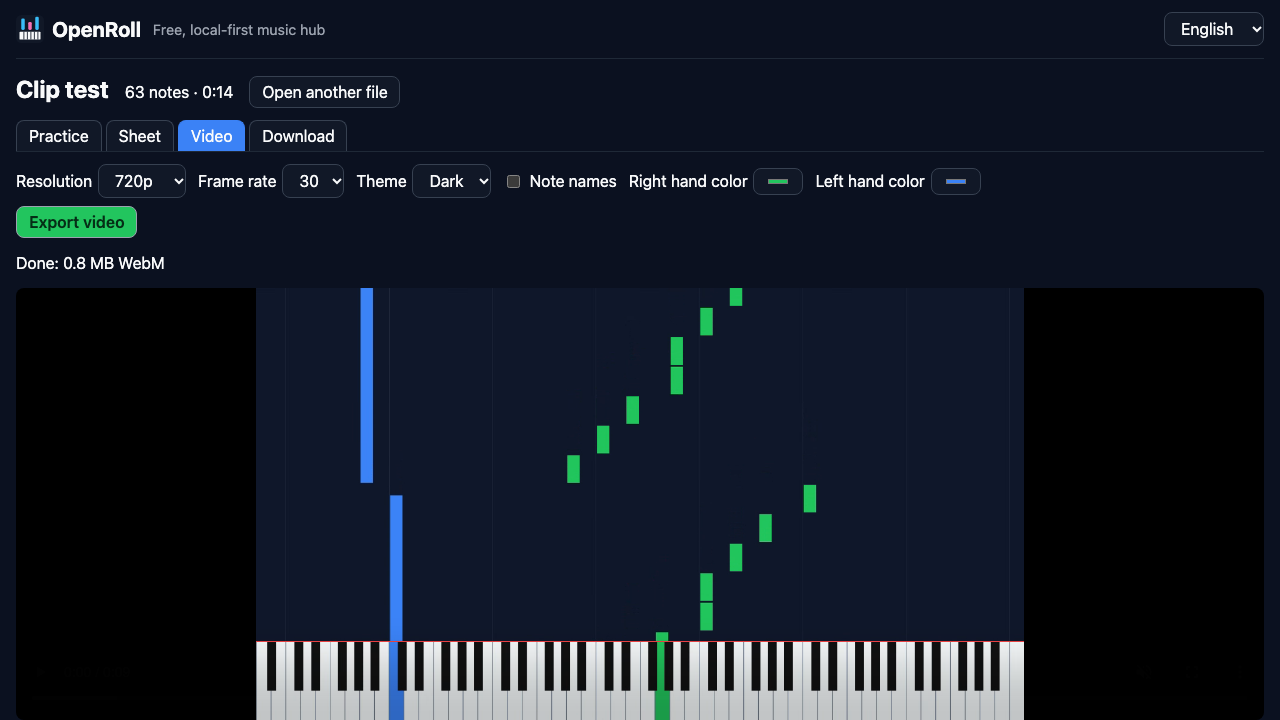
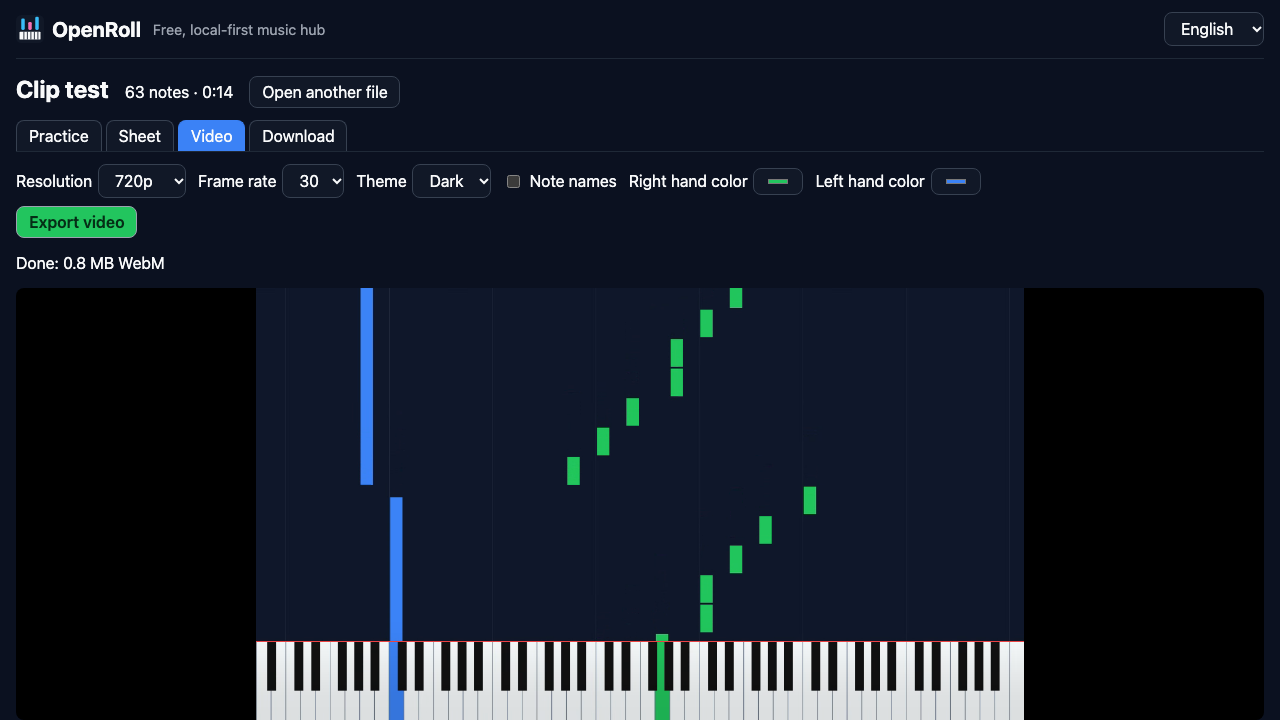
fix(video): record before audio starts and drive export from a worker clock so hidden tabs keep sound; velocities 0.35–1

Changed region(s): [[0.1875, 0.9472, 0.8125, 1.0]]

diff --git a/src/converters/outputs/video/index.ts b/src/converters/outputs/video/index.ts
@@ -91,9 +91,22 @@ export async function exportVideo(
   recorder.ondataavailable = (e) => e.data.size && chunks.push(e.data);
   const stopped = new Promise<void>((r) => (recorder.onstop = () => r()));
 
-  // Schedule audio on the AudioContext timeline, then record in lockstep with it.
-  const lead = 0.15;
-  const t0 = piano.now() + lead;
+  // The AudioContext must be running or nothing reaches the recorder (e.g. no user gesture yet).
+  if (raw.state !== 'running') await raw.resume().catch(() => {});
+  if (dest && raw.state !== 'running') {
+    tone.getDestination().mute = wasMuted;
+    tone.disconnect(piano.output, dest);
+    throw Object.assign(new Error('Audio is blocked by the browser; click the page and try again.'), {
+      code: 'audio-suspended',
+    });
+  }
+
+  // Start recording first (paused), so audio can never play before the recorder is listening,
+  // then schedule the notes and resume the recorder exactly when the audio starts.
+  recorder.start(1000);
+  recorder.pause();
+  const lead = 0.25;
+  const t0 = raw.currentTime + lead;
   if (dest) {
     for (const n of score.notes) {
       if (n.start + n.duration <= start || n.start >= end) continue;
@@ -102,32 +115,30 @@ export async function exportVideo(
     }
   }
 
+  // Drive frames from a worker clock locked to the audio clock (rAF stops in hidden tabs).
+  const ticker = new Worker(new URL('../../../workers/ticker.worker.ts', import.meta.url), { type: 'module' });
   await new Promise<void>((resolve, reject) => {
-    let started = false;
-    let raf = 0;
-    const tick = () => {
-      if (signal?.aborted) {
-        cancelAnimationFrame(raf);
-        if (recorder.state !== 'inactive') recorder.stop();
-        reject(new DOMException('Export cancelled', 'AbortError'));
-        return;
-      }
-      const elapsed = raw.currentTime - t0;
-      if (!started && elapsed >= 0) {
-        recorder.start(1000);
-        started = true;
-      }
-      const t = start + Math.max(0, Math.min(elapsed, length));
-      render(t);
-      onProgress(Math.max(0, Math.min(1, elapsed / length)));
-      if (elapsed >= length) {
-        recorder.stop();
-        resolve();
-        return;
-      }
-      raf = requestAnimationFrame(tick);
+    let recording = false;
+    const finish = (err?: Error) => {
+      ticker.onmessage = null;
+      ticker.postMessage({ cmd: 'stop' });
+      ticker.terminate();
+      if (recorder.state !== 'inactive') recorder.stop();
+      if (err) reject(err);
+      else resolve();
     };
-    raf = requestAnimationFrame(tick);
+    ticker.onmessage = () => {
+      if (signal?.aborted) return finish(new DOMException('Export cancelled', 'AbortError'));
+      const elapsed = raw.currentTime - t0;
+      if (!recording && elapsed >= 0) {
+        recorder.resume();
+        recording = true;
+      }
+      render(start + Math.max(0, Math.min(elapsed, length)));
+      onProgress(Math.max(0, Math.min(1, elapsed / length)));
+      if (elapsed >= length) finish();
+    };
+    ticker.postMessage({ cmd: 'start', intervalMs: Math.max(4, Math.floor(1000 / o.fps / 2)) });
   }).finally(() => {
     piano.releaseAll();
     tone.getDestination().mute = wasMuted;

diff --git a/tests/e2e/video-export.spec.ts b/tests/e2e/video-export.spec.ts
@@ -1,5 +1,5 @@
 import { expect, test } from '@playwright/test';
-import { generatedMidi, openFile, writeTemp } from './helpers';
+import { generatedMidi, openFile, synthWav, writeTemp } from './helpers';
 
 test('video export: 10-second clip plays and has the right duration', async ({ page }) => {
   await page.goto('/?lang=en&clip=10');
@@ -76,4 +76,49 @@ test('video export options: 1080p, 60 fps, light theme, labels', async ({ page }
   expect(Math.abs(info.duration - 2)).toBeLessThanOrEqual(0.2);
   // Light theme background is #f1f5f9.
   expect(info.bg[0]).toBeGreaterThan(200);
+});
+
+test('video exported from a transcribed recording has audible sound', async ({ page }) => {
+  const melody = Array.from({ length: 10 }, (_, i) => [60 + (i % 5) * 2, 0.25 + i * 0.4, 0.35] as [number, number, number]);
+  await page.goto('/?lang=en&clip=4');
+  await openFile(page, writeTemp('rec.wav', synthWav(melody)));
+  await expect(page.getByTestId('score-summary')).toBeVisible({ timeout: 90_000 });
+  await page.getByRole('tab', { name: 'Video' }).click();
+  await page.getByTestId('export-video').click();
+  const preview = page.getByTestId('video-preview');
+  await expect(preview).toBeVisible({ timeout: 60_000 });
+  const rms = await preview.evaluate(async (v: HTMLVideoElement) => {
+    const blob = await (await fetch(v.src)).blob();
+    const audio = await new AudioContext().decodeAudioData(await blob.arrayBuffer());
+    const ch = audio.getChannelData(0);
+    let sum = 0;
+    for (let i = 0; i < ch.length; i++) sum += ch[i]! * ch[i]!;
+    return Math.sqrt(sum / ch.length);
+  });
+  console.log('transcribed export RMS', rms);
+  expect(rms).toBeGreaterThan(0.005);
+});
+
+test('export keeps sound and length when the tab is hidden (no animation frames)', async ({ page }) => {
+  // Hidden tabs get no requestAnimationFrame callbacks; the exporter must not depend on them.
+  await page.addInitScript(() => {
+    window.requestAnimationFrame = () => 0;
+  });
+  await page.goto('/?lang=en&clip=4');
+  await openFile(page, writeTemp('hidden.mid', generatedMidi(6, 'Hidden tab')));
+  await page.getByRole('tab', { name: 'Video' }).click();
+  await page.getByTestId('export-video').click();
+  const preview = page.getByTestId('video-preview');
+  await expect(preview).toBeVisible({ timeout: 60_000 });
+  const info = await preview.evaluate(async (v: HTMLVideoElement) => {
+    const blob = await (await fetch(v.src)).blob();
+    const audio = await new AudioContext().decodeAudioData(await blob.arrayBuffer());
+    const ch = audio.getChannelData(0);
+    let sum = 0;
+    for (let i = 0; i < ch.length; i++) sum += ch[i]! * ch[i]!;
+    return { rms: Math.sqrt(sum / ch.length), duration: audio.duration };
+  });
+  console.log('hidden-tab export', info);
+  expect(info.rms).toBeGreaterThan(0.005);
+  expect(Math.abs(info.duration - 4)).toBeLessThanOrEqual(0.3);
 });

diff --git a/src/ui/VideoView.tsx b/src/ui/VideoView.tsx
@@ -32,7 +32,10 @@ export function VideoView({ score }: { score: Score }) {
       const blob = await exportVideo(score, { ...opts, end: clip }, (f) => setProgress(f), ac.signal);
       setResult({ url: URL.createObjectURL(blob), size: blob.size });
     } catch (e) {
-      if ((e as Error).name !== 'AbortError') setError((e as Error).message);
+      if ((e as Error).name !== 'AbortError') {
+        const code = (e as { code?: string }).code;
+        setError(code === 'audio-suspended' ? t('error.audio-suspended') : (e as Error).message);
+      }
     } finally {
       setProgress(null);
       abortRef.current = null;

diff --git a/src/workers/ticker.worker.ts b/src/workers/ticker.worker.ts
@@ -1,0 +1,11 @@
+/// <reference lib="webworker" />
+/**
+ * Steady clock for real-time export. Timers in dedicated workers keep running when the tab is
+ * hidden, unlike requestAnimationFrame (paused) and main-thread timers (throttled to 1 Hz).
+ */
+let id: ReturnType<typeof setInterval> | null = null;
+self.onmessage = (e: MessageEvent<{ cmd: 'start'; intervalMs: number } | { cmd: 'stop' }>) => {
+  if (id !== null) clearInterval(id);
+  id = null;
+  if (e.data.cmd === 'start') id = setInterval(() => self.postMessage(0), e.data.intervalMs);
+};

diff --git a/src/i18n/en.ts b/src/i18n/en.ts
@@ -94,6 +94,7 @@ export const en = {
   'calibrate.ok': 'Use this keyboard',
   'calibrate.cancel': 'Cancel',
   'home.recalibrate': 'Recalibrate keyboard',
+  'error.audio-suspended': 'The browser blocked audio. Click anywhere on the page and export again.',
 } as const;
 
 export type Messages = Record<keyof typeof en, string>;

diff --git a/playwright.config.ts b/playwright.config.ts
@@ -5,6 +5,8 @@ const port = Number(process.env.E2E_PORT ?? 4173);
 
 export default defineConfig({
   testDir: 'tests/e2e',
+  // Separate artifacts per port so concurrent runs don't delete each other's traces.
+  outputDir: `test-results/port-${port}`,
   timeout: 120_000,
   fullyParallel: false,
   workers: 1,

diff --git a/src/i18n/es.ts b/src/i18n/es.ts
@@ -96,4 +96,5 @@ export const es: Messages = {
   'calibrate.ok': 'Usar este teclado',
   'calibrate.cancel': 'Cancelar',
   'home.recalibrate': 'Recalibrar teclado',
+  'error.audio-suspended': 'El navegador bloqueó el audio. Haz clic en cualquier parte de la página y vuelve a exportar.',
 };

diff --git a/src/converters/inputs/audio/postprocess.ts b/src/converters/inputs/audio/postprocess.ts
@@ -56,7 +56,7 @@ export const DEFAULT_POSTPROCESS: PostprocessOptions = {
   ghostMaxOnset: 0.85,
   ghostAmplitudeRatio: 0.6,
   minOnset: 0.6,
-  minVelocity: 0.25,
+  minVelocity: 0.35,
   maxVelocity: 1.0,
   splitPitch: 60,
   title: 'Transcription',
